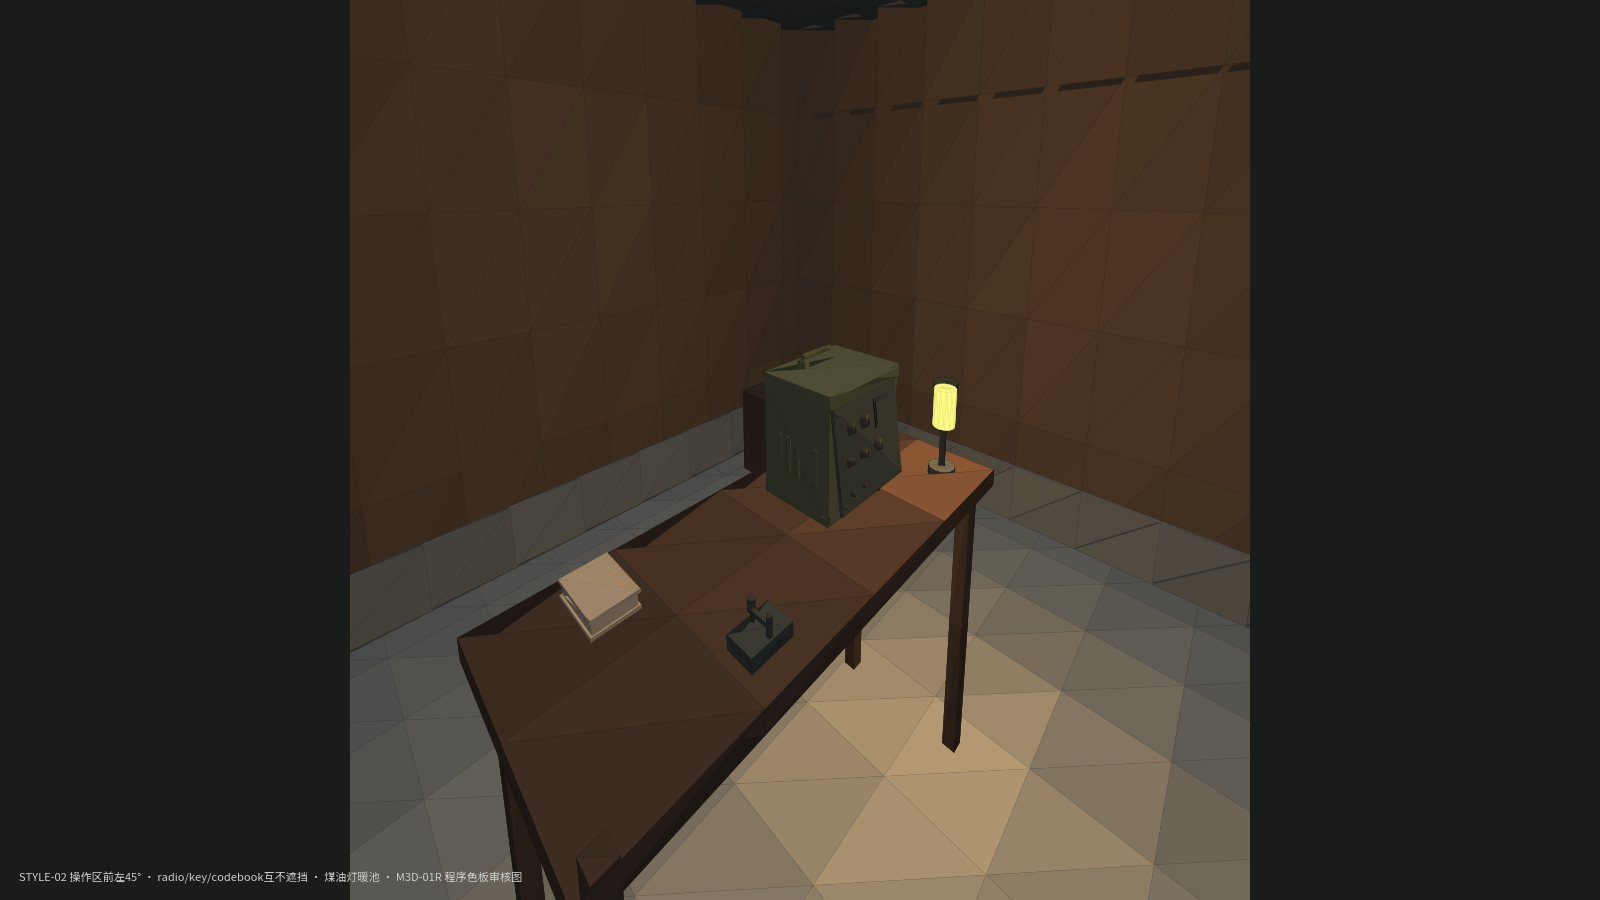
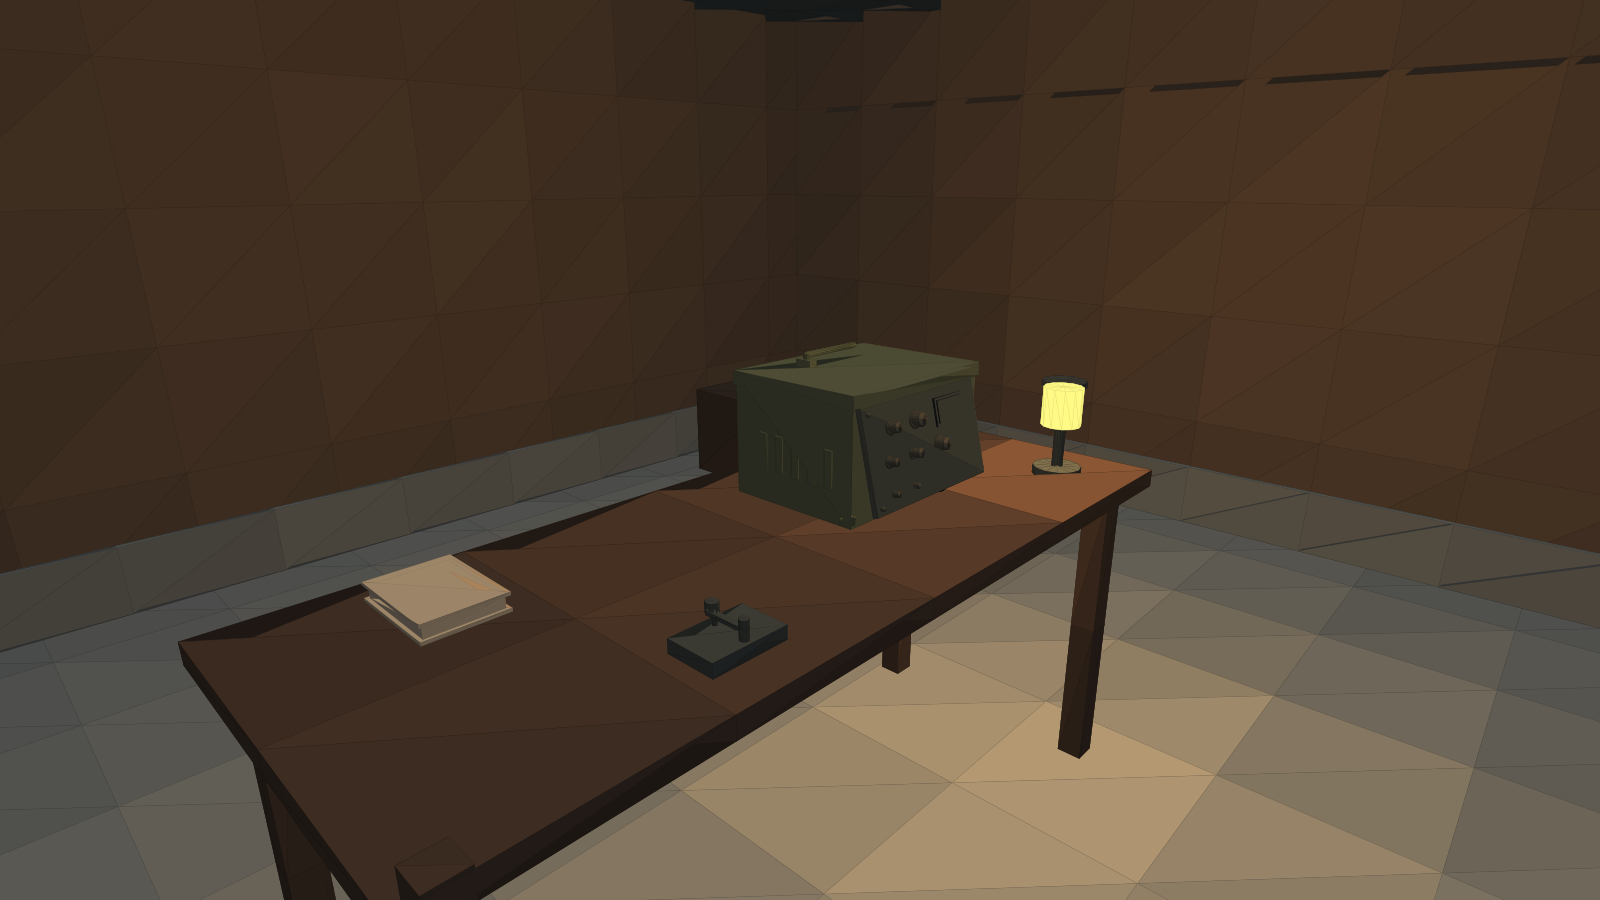
fix(M3D-01R-P): full-bleed STYLE frames without burned-in captions
- Renderer: NDC +/-1 full-canvas mapping (was equal-aspect pillar-box ~22%
  black bars each side); drop burned-in caption text from the six review
  frames; camera/metric details live in style_review_report.md only
- Six STYLE frames re-rendered at 1600x900 + 1280x720, visually checked
- Geometry, coordinates, scene.json contract and GLBs untouched
- Add integration_checklist.md: one-page on-device test sheet for the
  coding agent (scene S1, start/bounds, 8 colliders, prop transforms,
  radii, anchors, move points, test order, open item WR-1)
- CHANGELOG + style_review_report record this as presentation-only

diff --git a/modeling_delivery/S1/source/whitebox/render_style_frames.py b/modeling_delivery/S1/source/whitebox/render_style_frames.py
@@ -283,11 +283,14 @@ def render_frame(path, eye, target, fov, caption, size=(16.0, 9.0)):
                               edgecolors=[tuple(np.array(ecols[i]) * 0.85) for i in order],
                               linewidths=0.15)
         ax.add_collection(coll)
-    ax.set_xlim(-1.02, 1.02)
-    ax.set_ylim(-1.02, 1.02)
-    ax.set_aspect("equal")
+    # M3D-01R-P: fill the whole canvas — sx already carries the 1/aspect
+    # normalization, so a non-equal axes aspect maps NDC ±1 onto the 16:9
+    # frame with correct proportions and no pillar-box bars. Captions are
+    # no longer burned in; camera/metric details live in style_review_report.md.
+    ax.set_xlim(-1.0, 1.0)
+    ax.set_ylim(-1.0, 1.0)
+    ax.set_aspect("auto")
     ax.axis("off")
-    fig.text(0.012, 0.018, caption, fontsize=8, color="#C9CDC9", ha="left", va="bottom")
     fig.savefig(path)
     # ---- metrics on the rendered pixels
     fig.canvas.draw()

diff --git a/modeling_delivery/S1/style_review_report.md b/modeling_delivery/S1/style_review_report.md
@@ -7,6 +7,13 @@
 
 ---
 
+## 0. 修订记录
+
+- **2026-07-20 M3D-01R**：紧凑小室重做 + 审核级电台 + 新三图（本报告主体）。
+- **2026-07-20 M3D-01R-P（仅为审核图呈现修订）**：修复软件渲染器 equal-aspect 设置导致六图左右各约 22% 柱形黑边的问题，改为 NDC ±1 全画幅映射（投影 x 分量已含 1/aspect 归一化，画面比例正确）；去除六图底部烧入的技术字幕，相机/尺寸/检查结论仅记录于本报告。**场景几何、坐标、scene.json 契约、GLB 零改动**；六图重出后指标重新测量（§5）。`layout_top`/`scene_overview`/`visitor_start`/`props_contact_sheet` 为工程标注图，保留标注，不在本次修订范围。
+
+---
+
 ## 1. M3D-01R 修订对照（旧 8×8 vs 新紧凑小室）
 
 | 项 | 旧版（已否决） | 本轮 M3D-01R |
@@ -45,8 +52,8 @@
 
 ## 3. 三张风格图：相机与灯光
 
-渲染器：`source/whitebox/render_style_frames.py`（numpy 软件渲染；0.5 m 面细分修正画家算法；自发光面最后绘制；道具 yaw 已支持）。
-尺寸：每张 **1600×900** 审核版 + **1280×720** 手机阅读版，按各自尺寸重新渲染，未拉伸（已程序核验六图尺寸）。
+渲染器：`source/whitebox/render_style_frames.py`（numpy 软件渲染；0.5 m 面细分修正画家算法；自发光面最后绘制；道具 yaw 已支持；M3D-01R-P 起为 NDC ±1 全画幅映射，无柱形黑边）。
+尺寸：每张 **1600×900** 审核版 + **1280×720** 手机阅读版，按各自尺寸重新渲染，未拉伸（已程序核验六图尺寸）；图面不烧入任何技术字幕。
 输出：`preview/style/STYLE-01_visitor_start.png(+_720p)`、`STYLE-02_operator_45deg.png(+_720p)`、`STYLE-03_route_to_entry.png(+_720p)`。
 
 | 图 | 相机 eye / target / 垂直 FOV | 构图意图 |
@@ -75,10 +82,11 @@
 
 ## 5. 风格验收指标（程序测量 + 目检）
 
-| 验收项 | 结果 |
+| 验收项 | 结果（M3D-01R-P 全画幅六图重新测量） |
 |---|---|
-| 红色可见面积 ≤ 8–12% | **满足**：暗朱红仅旧木门框。STYLE-01 = 0.00%，STYLE-02 = 0.00%，STYLE-03 = 0.04% |
-| 暖光桌面为第一视觉焦点 | **满足**：STYLE-01/02 桌面暖色占比 13.45%/14.35%，中心格暖色 12.0%/10.8%，中心格明度 0.213/0.231 与全局 0.253/0.261 匹配；STYLE-03 为回望构图，桌面在画面边缘（暖色 4.67%）属预期 |
+| 画面完整性 | **满足**：六图均为全画幅场景，无柱形黑边、无烧入字幕（已逐图目检） |
+| 红色可见面积 ≤ 8–12% | **满足**：暗朱红仅旧木门框。STYLE-01 = 0.00%，STYLE-02 = 0.00%，STYLE-03 = 0.05% |
+| 暖光桌面为第一视觉焦点 | **满足**：STYLE-01/02 桌面暖色占比 13.45%/14.32%，中心格暖色 6.3%/7.6%，中心格明度 0.214/0.220 与全局 0.252/0.260 匹配；STYLE-03 为回望构图，桌面在画面边缘（暖色 4.46%）属预期 |
 | 暗部可辨、无纯黑 | **满足**：暗部 2% 分位明度 0.113 / 0.125 / 0.124，无 0 值区；墙角、地面边界、出口轮廓可辨 |
 | 第一眼读出"正在工作的设备" | **满足**：yaw 修正后 STYLE-01/02 中倾斜控制面、无字表窗、旋钮阵、贴桌线缆清晰可见（已逐图目检） |
 | 三物互不遮挡（STYLE-02） | **满足（白盒精度）**：radio/key/codebook 剪影分离 |
@@ -112,6 +120,12 @@
 - `preview/scene_overview.png`、`visitor_start.png`、`props_contact_sheet.png`、`layout_top.png`（顶视布局图，含尺寸/碰撞/bounds/起点/move points 标注）
 - `preview/style/` 六图（1600×900 + 1280×720）
 - `asset_report.csv`、`CHANGELOG.md`、`open_questions.md`、`style_review_report.md`（本文件）
+
+**2026-07-20 M3D-01R-P（仅审核图呈现修订）追加：**
+- `source/whitebox/render_style_frames.py`（NDC ±1 全画幅映射；去除烧入字幕）
+- `preview/style/` 六图重出（几何/坐标/契约零改动，GLB 与 scene.json 未触碰）
+- `integration_checklist.md`（新增，编码真机联调一页清单）
+- 本报告 §0/§3/§5/§8 与 `CHANGELOG.md` 同步更新
 
 未变：`app/`、`research/`、`modeling_input/`（他人并发工作区，本轮只读）。
 

diff --git a/modeling_delivery/S1/integration_checklist.md b/modeling_delivery/S1/integration_checklist.md
@@ -1,0 +1,58 @@
+# S1 白盒真机联调核对清单（integration_checklist）
+
+> 适用提交：`8062c0c` 及之后的 M3D-01R-P 呈现修订提交 ｜ scene_id：`S1` ｜ 阶段：白盒 + 风格审核（未进入 M3D-02/03）
+> **`modeling_delivery/S1/runtime/scene.json` 是运行时坐标唯一事实源**；本清单只是其联调摘要，如有出入以 scene.json 为准。
+> 坐标系：Y-up、右手系、-Z 朝前；单位：米；文物原点在底面中心；碰撞体只在 scene.json，不在渲染 GLB 内。
+
+## 1. 起点与移动
+
+- `visitor_start.position_m = [0.0, 1.55, 1.65]`（眼高 1.55 m）
+- `visitor_start.rotation_deg = [0.0, 0.0, 0.0]`（零旋转，按 -Z 朝前即面向电台桌）
+- `movement`：type=bounds，speed 1.2 m/s，x ∈ [-2.25, 2.25]，z ∈ [-1.95, 1.95]
+
+## 2. 碰撞体（8 个 AABB，min_m → max_m）
+
+| id | min_m | max_m |
+|---|---|---|
+| wall_north | [-2.9, 0.0, -2.6] | [2.9, 2.25, -2.35] |
+| wall_south | [-2.9, 0.0, 2.35] | [2.9, 2.25, 2.6] |
+| wall_east | [2.65, 0.0, -2.35] | [2.9, 2.25, 2.35] |
+| wall_west | [-2.9, 0.0, -2.35] | [-2.65, 2.25, 2.35] |
+| desk_radio | [-0.9, 0.0, -0.275] | [0.9, 0.78, 0.475] |
+| stool | [0.09, 0.0, -0.91] | [0.51, 0.45, -0.49] |
+| crate | [1.65, 0.0, -2.1] | [2.25, 0.42, -1.6] |
+| guide_plate | [-2.66, 1.1, 1.5] | [-2.6, 1.75, 2.2] |
+
+## 3. 文物（props）
+
+| id | glb（runtime/ 下） | position_m | rotation_deg | interaction_radius_m | highlight_anchor_m（局部） |
+|---|---|---|---|---|---|
+| p_s1_radio | props/radio_station_whitebox.glb | [0.32, 0.78, 0.04] | [0, 180, 0] | 1.8 | [0.0, 0.15, -0.1] |
+| p_s1_key | props/telegraph_key_whitebox.glb | [-0.34, 0.78, 0.34] | [0, 0, 0] | 1.6 | [0.0, 0.12, 0.0] |
+| p_s1_codebook | props/code_book_whitebox.glb | [-0.58, 0.78, -0.1] | [0, 0, 0] | 1.9 | [0.0, 0.1, 0.0] |
+
+- 环境：`environment_glb = environment_whitebox.glb`（原点即场景原点，无需额外变换）。
+- radio yaw 180° 使倾斜控制面（表窗+旋钮）朝 +Z 即朝游客；highlight_anchor 为局部坐标，随 yaw 变换。
+
+## 4. 移动观察点（move_points）
+
+| id | position_m | look_at_m | 用途 |
+|---|---|---|---|
+| mp_radio | [0.75, 1.55, 0.95] | [0.32, 1.0, 0.04] | 电台近看检查点（距 radio 1.01 m） |
+| mp_guide | [-1.5, 1.55, 1.15] | [-2.63, 1.42, 1.85] | 西墙导览牌观察点 |
+
+## 5. 推荐真机测试顺序
+
+1. 加载 environment_whitebox.glb + 三个 props GLB，核对 4 个 GLB 单位/朝向/原点（Filament 目视 + Khronos 已 0 错 0 警）。
+2. 放置 visitor_start，第一眼应看到暖光电台桌与电台控制面（首目标水平距 1.64 m < 2 m）。
+3. 启用 bounds 行走：x/z 四向触界应被拦停；起点与两个 move point 均不落入任何 collider。
+4. 逐一撞测 8 个 collider（重点：desk_radio 四周、门洞两侧 wall_south 段、guide_plate 薄板）。
+5. 在 visitor_start 与 mp_radio 分别对三件文物做拾取（点击带 1.0–2.5 m、各 interaction_radius 内），核对高亮锚点落在文物本体上。
+6. 走 mp_radio → mp_guide → 门洞回望路线，确认视线无穿模、无碰撞卡死。
+7. 记录帧率与手感，回填联调结论到 open_questions.md（OQ-I-03）。
+
+## 6. 唯一待确认项
+
+- **WR-1（OQ-I-04）**：`visitor_start.rotation_deg = [0,0,0]` 约定零旋转即朝 -Z；radio 首次实际使用 yaw 180°。请编码侧确认真机引擎 yaw 正方向与本约定一致，若相反需统一口径后由建模侧调整（scene.json 会同步更新并保持唯一事实源）。
+
+> 本清单对应白盒资产；真机联调通过前，白盒与电台均不标记为完成。

diff --git a/modeling_delivery/S1/CHANGELOG.md b/modeling_delivery/S1/CHANGELOG.md
@@ -111,3 +111,18 @@
 **风格测量**：红色 0.00%/0.00%/0.04%（仅旧木门框）；暖光桌面为第一焦点（STYLE-01/02 暖色 13.45%/14.35%）；暗部 p02 0.113–0.125 无纯黑。第三方资产：无。USER-VIS-003 仅取倾斜控制面层次/键与线缆功能关系/木桌煤油灯局部暖光/紧凑尺度感，排除展陈文字/仪表读数/型号品牌/线缆走向/现馆布局；三张用户图均未入库、未进 Git。
 
 **状态**：⏸ 停止，等待用户与资料审核"通过/指定修改项"及编码真机联调；未进入 M3D-02/M3D-03，未通过真机联调不标记为完成。
+
+## 2026-07-20 ｜ M3D-01R-P ｜ 审核图呈现修订（几何/契约零改动）
+
+**触发**：用户指出六张 STYLE 图左侧/右侧存在大块纯黑留边，且底部烧入技术说明文字；要求仅为呈现修订，不动已确认的小室尺度、门洞、桌面、radio 位置/yaw、文物 ID、scene.json schema、碰撞契约与 App 资源路径。
+
+**修复**：
+- 黑边根因：渲染器投影 x 分量已含 1/aspect 归一化，但坐标轴设置 `aspect="equal"`，NDC ±1 数据在 16:9 画布上只填约 56% 宽度，两侧各约 22% 柱形黑。改为 `aspect="auto"` + xlim/ylim = ±1，六图全画幅显示场景。
+- 去除六图底部烧入字幕；相机、尺寸、检查结论只写入 style_review_report.md。
+- `layout_top`/`scene_overview`/`visitor_start`/`props_contact_sheet` 为工程标注图，保留标注，不在本次修订范围。
+
+**重出与测量**：六图重渲（1600×900 + 1280×720，程序核验尺寸），逐图目检无黑边无字幕；红色 0.00%/0.00%/0.05%，暖色 13.45%/14.32%/4.46%，暗部 p02 0.113/0.125/0.124，结论不变。GLB、scene.json、layout_s1.py 均未改动。
+
+**新增**：`integration_checklist.md`——编码模型真机联调一页清单（适用提交与 scene_id、起点/bounds、8 个 collider、三文物位置/旋转/交互半径/高亮锚点、move points、推荐测试顺序、唯一待确认项 WR-1 yaw 基准；声明 scene.json 为运行时坐标唯一事实源）。
+
+**状态**：⏸ 停止，等待用户审核风格图；仍未进入 M3D-02/M3D-03，未通过真机联调不标记为完成。
